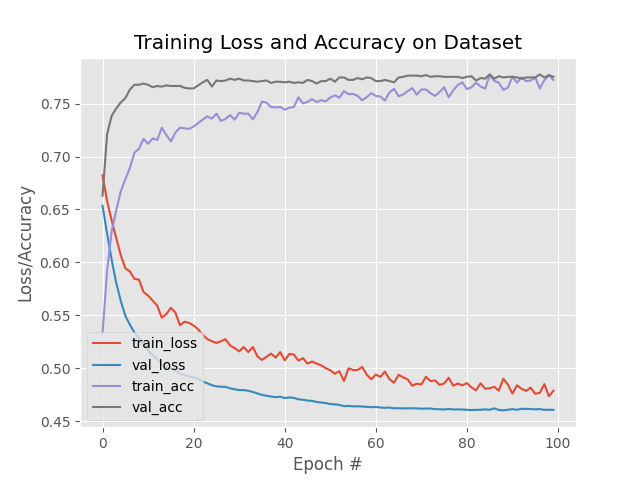
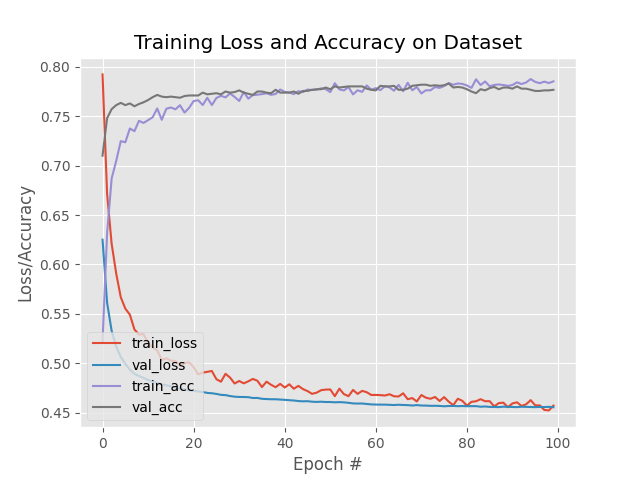
Updated spaceshipTitanic

diff --git a/machineLearning/Kaggle/spaceshipTitanic/main.py b/machineLearning/Kaggle/spaceshipTitanic/main.py
@@ -14,7 +14,7 @@ import os
 import tensorflow as tf
 from tensorflow import keras
 from tensorflow.keras import layers
-from tensorflow.keras.optimizers import RMSprop
+from tensorflow.keras.optimizers import RMSprop, Adam
 from tensorflow.keras import regularizers
 from tensorflow.keras.models import load_model
 
@@ -387,19 +387,19 @@ modelType = "VotingClassifier"
 svmVoting = "soft"
 
 getFinalPredictions = False
-fitShallow = True
+fitShallow = False
 
 # Use dnn to predict a new feature?
 dnnFeature = False
 
 # Should the DNN be run?
-runDNN = False
+runDNN = True
 # DNN epochs:
 totalEpochs = 100
 # Batch size:
 dnnBatchSize = 64
 # Learning rate:
-dnnLearningRate = 0.0002
+dnnLearningRate = 0.0004
 
 # Store best model here:
 bestModel = {"Model": None, "Accuracy": 0.0, "Threshold": 0.0}
@@ -414,7 +414,7 @@ skipStratifiedCV = True
 
 # Cross-validation folds:
 cvFolds = 10
-runGridSearch = True
+runGridSearch = False
 # Cross-validation parallel jobs (1 per core):
 parallelJobs = 5
 
@@ -939,68 +939,72 @@ if fitShallow:
     print("Fitting model: ", modelType)
 
     # Dictionary of grid parameters:
-    logisticParameters = {"solver": ["liblinear"], "C": np.logspace(-1, 0, 40)[1:16], "penalty": ["l2"]}
-    svmParameters = {"kernel": ["linear", "rbf"],
-                     "C": np.logspace(-1.0, 0.4, 10)}
-    # svmParameters = {"kernel": ["rbf"], "C": [2.1544346900318843], "gamma": np.logspace(-2.1, 0.01, 20)[1:10]}
+    logisticParameters = {"solver": ["liblinear"], "C": np.logspace(-2, 2, 10), "penalty": ["l2"]}
+
+    svmParameters = {"kernel": ["rbf"], "C": np.logspace(-0.1, 0.5, 10),
+                     "gamma": [0.09027252, 0.09261187, 0.09501185, 0.09747402, 0.1]}
 
     modelDictionary = {"SVM":  # svm.SVC(C=0.8, kernel="rbf")
-        {  # "Model": svm.SVC(C=2.1544, gamma=0.0614, kernel="rbf", random_state=rng),
-            "Model": svm.SVC(C=1.7995852, kernel="rbf", random_state=rng),
-            "Params": svmParameters},
-        "LogisticRegression":
-            {"Model": LogisticRegression(solver="liblinear", penalty="l2", C=0.10608183551394486, random_state=rng),
-             # "Model": LogisticRegression(solver="liblinear", penalty="l1", C=0.05583914701751073,
-             #                            random_state=rng),
-             "Params": logisticParameters},
-        "SGD":  # SGDClassifier(loss="hinge", penalty="elasticnet", alpha=0.00015)
-            {"Model": SGDClassifier(loss="hinge", penalty="elasticnet", alpha=0.00008, random_state=rng),
-             "Params": []},
-        "DecisionTree":
-            {"Model": DecisionTreeClassifier(criterion="gini", random_state=rng,
-                                             max_depth=4,
-                                             max_features=35,
-                                             # max_leaf_nodes=10,
-                                             # min_samples_split=2,
-                                             # min_samples_leaf=2,
-                                             # splitter="best"
-                                             ),
-             "Params": []},
-        "RandomForest":
-            {"Model": RandomForestClassifier(random_state=rng,
-                                             n_estimators=60,
-                                             max_depth=10,
-                                             max_features=10,
-                                             max_leaf_nodes=30,
-                                             min_samples_split=30,
-                                             ),
-             "Params": []},
-        "GradientBoost":
-            {"Model": GradientBoostingClassifier(random_state=rng,
-                                                 n_estimators=150,
-                                                 max_depth=4,
-                                                 max_features="auto",
-                                                 max_leaf_nodes=20,
-                                                 learning_rate=0.09,
-                                                 n_iter_no_change=10,
-                                                 subsample=1.0
-                                                 ),
-             "Params": []},
+                           {"Model": svm.SVC(C=1.0, kernel="rbf", gamma=0.09, random_state=rng),
+                            # {"Model": svm.SVC(C=0.11, kernel="rbf", gamma=0.06, random_state=rng),
+                            # "Model": svm.SVC(C=1.7995852, kernel="rbf", random_state=rng),
+                            "Params": svmParameters},
+                       "LogisticRegression":
+                           {"Model": LogisticRegression(solver="liblinear", penalty="l2", C=1.0,
+                                                        random_state=rng),
+                            # "Model": LogisticRegression(solver="liblinear", penalty="l1", C=0.05583914701751073,
+                            #                            random_state=rng),
+                            "Params": logisticParameters},
+                       "SGD":  # SGDClassifier(loss="hinge", penalty="elasticnet", alpha=0.00015)
+                           {"Model": SGDClassifier(loss="hinge", penalty="l1", alpha=0.0001, random_state=rng),
+                            "Params": []},
+                       "DecisionTree":
+                           {"Model": DecisionTreeClassifier(criterion="gini", random_state=rng,
+                                                            # max_depth=4,
+                                                            max_features=30,
+                                                            # max_leaf_nodes=2,
+                                                            min_samples_split=10,
+                                                            # min_samples_leaf=1,
+                                                            splitter="best"
+                                                            ),
+                            "Params": []},
+                       "RandomForest":
+                           {"Model": RandomForestClassifier(random_state=rng,
+                                                            n_estimators=60,
+                                                            max_depth=10,
+                                                            max_features=10,
+                                                            max_leaf_nodes=30,
+                                                            min_samples_split=30,
+                                                            ),
+                            "Params": []},
+                       "GradientBoost":
+                           {"Model": GradientBoostingClassifier(random_state=rng,
+                                                                n_estimators=150,
+                                                                max_depth=4,
+                                                                max_features="auto",
+                                                                max_leaf_nodes=20,
+                                                                learning_rate=0.09,
+                                                                n_iter_no_change=10,
+                                                                subsample=1.0
+                                                                ),
+                            "Params": []},
 
-        "AdaBoost":
-            {"Model": AdaBoostClassifier(random_state=rng,
-                                         base_estimator=DecisionTreeClassifier(max_depth=2),
-                                         n_estimators=100,
-                                         learning_rate=0.5
-                                         ),
-             "Params": []}
-    }
+                       "AdaBoost":
+                           {"Model": AdaBoostClassifier(random_state=rng,
+                                                        base_estimator=DecisionTreeClassifier(max_depth=2),
+                                                        n_estimators=100,
+                                                        learning_rate=0.5
+                                                        ),
+                            "Params": []}
+                       }
 
     # Classifiers that compose the ensemble:"
     # classifierNames = ["SVM", "LogisticRegression", "RandomForest"]
     # classifierNames = ["SVM", "LogisticRegression", "DecisionTree"]
 
     classifierNames = ["GradientBoost", "AdaBoost"]
+
+    # classifierNames = ["SVM", "LogisticRegression"]
 
     # Prepare the voting classifier:
     if modelType == "VotingClassifier":
@@ -1199,14 +1203,14 @@ if fitShallow:
 
             # Get and display results:
             resultsDict = displayResults(modelPredictions, testLabels, modelScore, cvMean, cvStdDev, 3)
-
             currentAccuracy = resultsDict["cmAccuracy"]
+
             if currentAccuracy > bestAccuracy:
                 # Store model & accuracy:
-                bestModel["Model"] = currentModel
+                bestModel["Model"] = optimizedModel
                 bestModel["Accuracy"] = currentAccuracy
                 bestModel["Threshold"] = 0.0
-                print("Got better model: ", bestModel.__class__.__name__)
+                print("Got better model: ", optimizedModel.__class__.__name__)
 
             # Plot confusion matrix:
             plotConfusionMatrix(testLabels, modelPredictions, optimizedModel)
@@ -1218,32 +1222,38 @@ if runDNN:
     trainFeatures = datasets["train"]["dataset"]
     trainLabels = datasets["train"]["labels"]
 
-    testFeatures = datasets["validation"]["dataset"]
-    testLabels = datasets["validation"]["labels"]
+    valFeatures = datasets["validation"]["dataset"]
+    valLabels = datasets["validation"]["labels"]
 
     # Feature data frames to tensors:
     trainFeatures = tf.convert_to_tensor(trainFeatures)
-    testFeatures = tf.convert_to_tensor(testFeatures)
+    valFeatures = tf.convert_to_tensor(valFeatures)
 
     # Set the dnn architecture:
     model = keras.Sequential(
         [
-            layers.Dense(32, activation="relu"),
-            layers.Dropout(0.2),
-            layers.Dense(16, activation="relu"),
-            layers.Dropout(0.2),
-            layers.Dense(8, activation="relu"),
-            layers.Dropout(0.2),
-            layers.Dense(4, activation="relu"),
-            layers.Dropout(0.2),
+            layers.Dense(units=64, kernel_initializer="he_normal"),
+            layers.BatchNormalization(),
+            layers.ReLU(),
+            layers.Dropout(0.5),
+
+            layers.Dense(units=32, kernel_initializer="he_normal"),
+            layers.BatchNormalization(),
+            layers.ReLU(),
+            layers.Dropout(0.5),
+
+            # layers.Dense(units=16, kernel_initializer="he_normal"),
+            # layers.BatchNormalization(),
+            # layers.ReLU(),
+            # layers.Dropout(0.5),
+
             layers.Dense(1, activation="sigmoid")
 
         ]
     )
 
     # Compile the model:
-
-    optimizer = RMSprop(learning_rate=dnnLearningRate)
+    optimizer = Adam(learning_rate=dnnLearningRate)
     model.compile(optimizer=optimizer, loss="binary_crossentropy", metrics=["accuracy"])
 
     # Model Checkpoint,
@@ -1260,8 +1270,12 @@ if runDNN:
                         trainLabels,
                         epochs=totalEpochs,
                         batch_size=dnnBatchSize,
-                        validation_data=(testFeatures, testLabels),
+                        validation_data=(valFeatures, valLabels),
                         callbacks=[modelCheckpoint])
+
+    loss, accuracy = model.evaluate(valFeatures, valLabels)
+    print("Test loss:", loss)
+    print("Test accuracy:", accuracy)
 
     # Plot the learning curves:
     # Plot the training loss and accuracy
